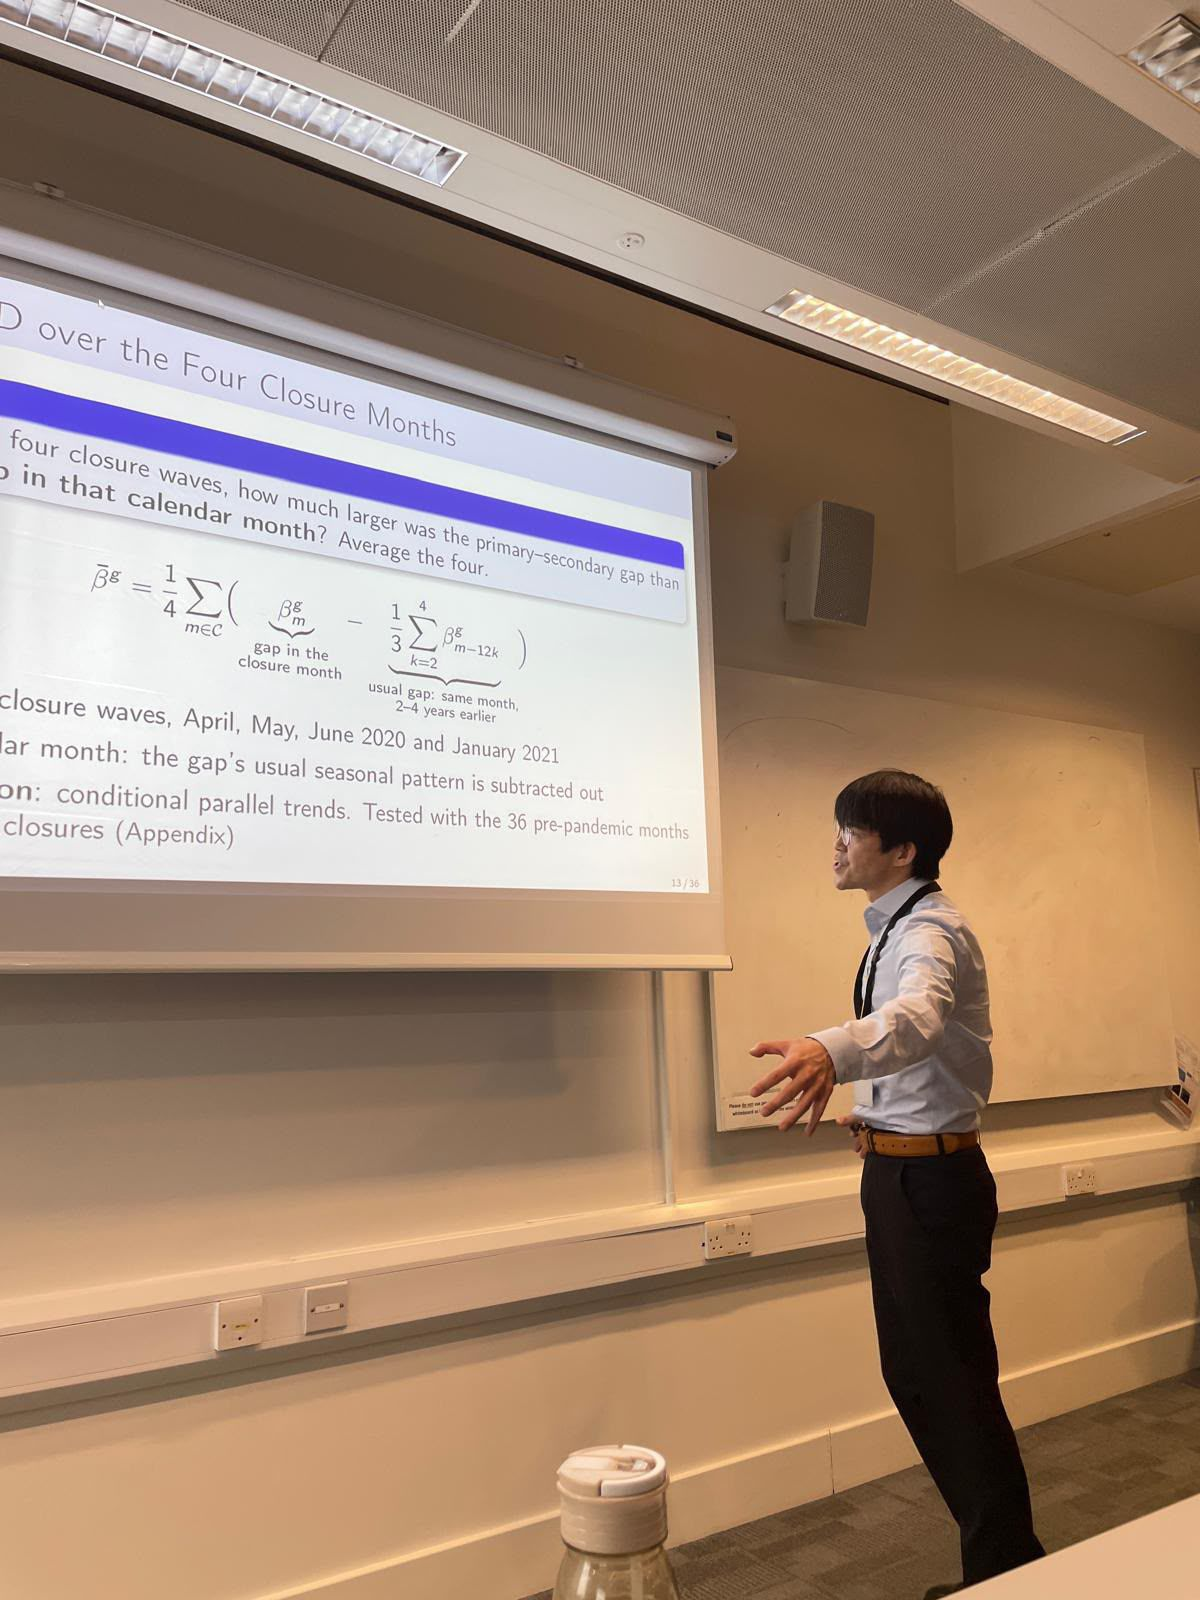
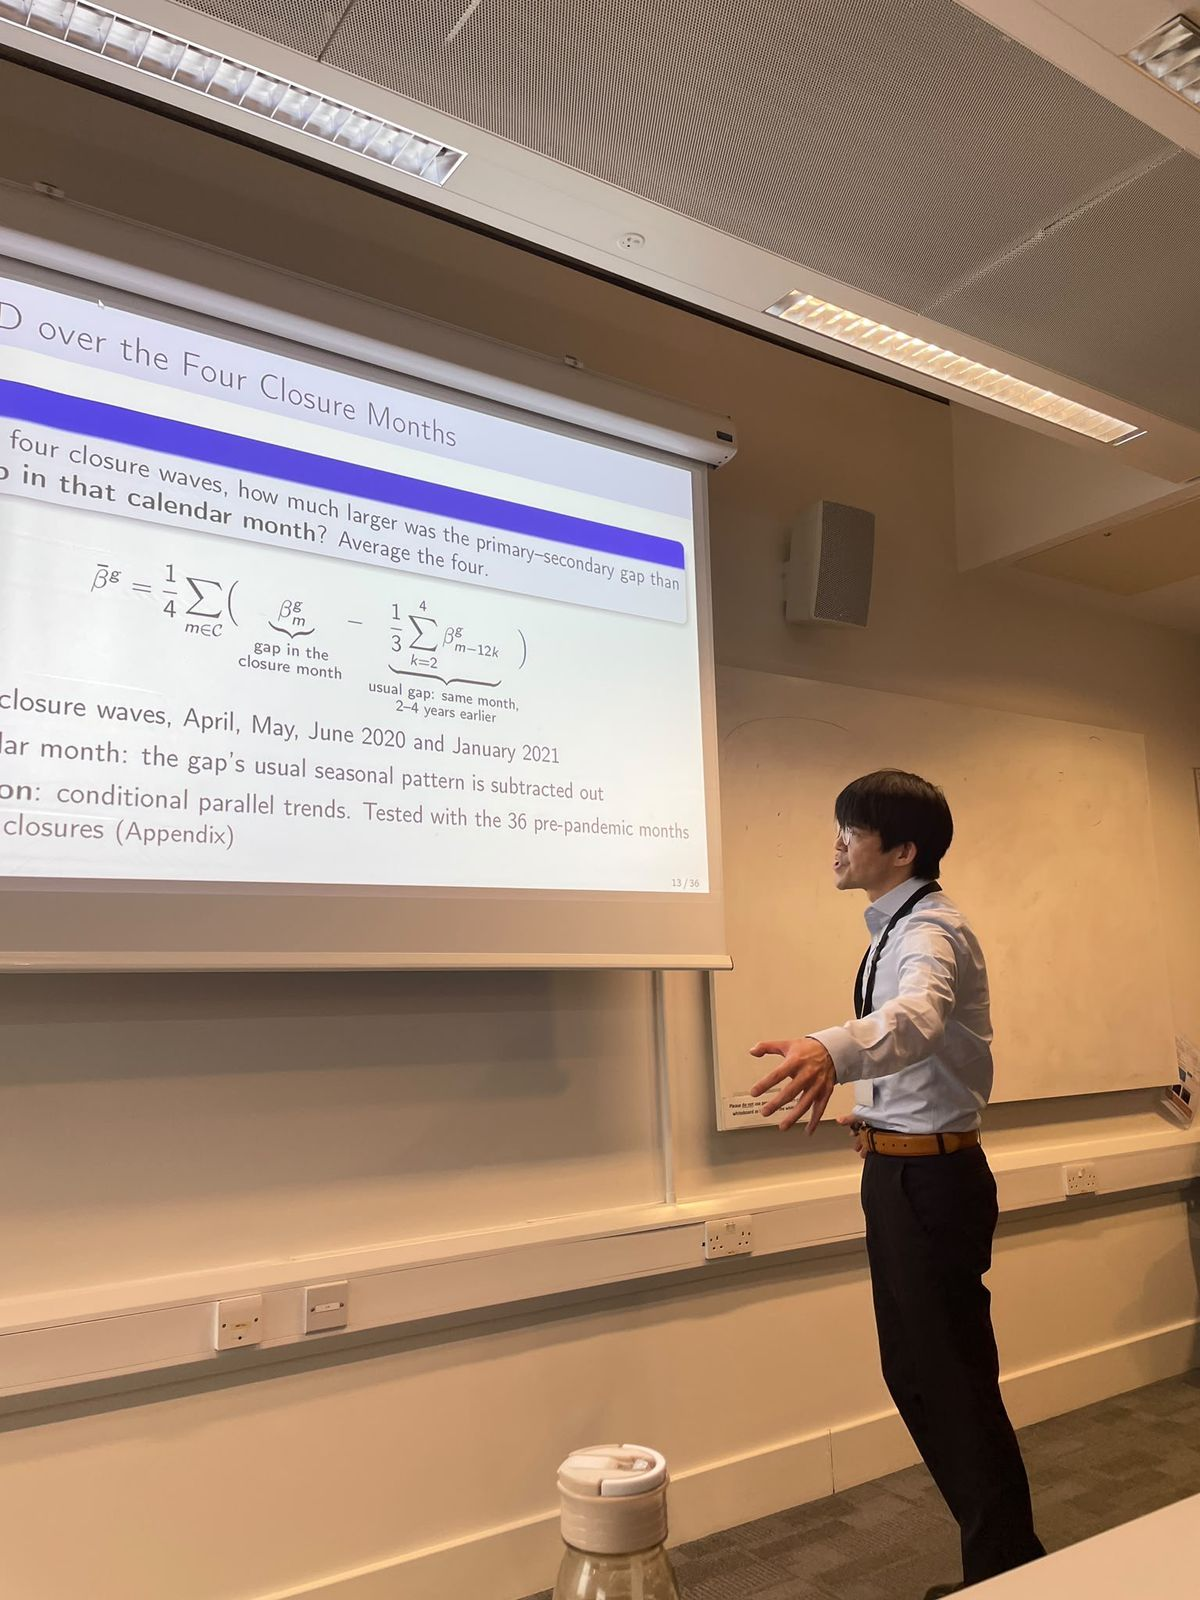
Group workshop photos by session and add Tomoto and Fernando
The gallery now has Opening and Sessions 1 to 3, each in full rows.
Adds photos of Tomoto Masuda and Fernando Rowland and swaps one Tomoto
photo for a sharper copy of the same shot.

diff --git a/photos.html b/photos.html
@@ -41,52 +41,83 @@
       <h2>Opening</h2>
       <p class="session-meta">Welcome and opening remarks<span>10:30–11:00</span></p>
     </div>
-    <ul class="gallery four">
-        <li><a href="photos/opening-1.jpg"><img src="photos/thumbs/opening-1.jpg" width="540" height="720" loading="lazy" alt="Opening of the workshop in room JUB-143"></a></li>
-        <li><a href="photos/opening-2.jpg"><img src="photos/thumbs/opening-2.jpg" width="540" height="720" loading="lazy" alt="Opening of the workshop in room JUB-143"></a></li>
-        <li><a href="photos/opening-3.jpg"><img src="photos/thumbs/opening-3.jpg" width="540" height="720" loading="lazy" alt="Opening of the workshop in room JUB-143"></a></li>
-        <li><a href="photos/opening-4.jpg"><img src="photos/thumbs/opening-4.jpg" width="540" height="720" loading="lazy" alt="Opening of the workshop in room JUB-143"></a></li>
-    </ul>
+    <div class="mosaic">
+      <ul class="photo-row">
+        <li class="p"><a href="photos/opening-1.jpg"><img src="photos/thumbs/opening-1.jpg" width="540" height="720" loading="lazy" alt="Opening of the workshop in room JUB-143"></a></li>
+        <li class="p"><a href="photos/opening-2.jpg"><img src="photos/thumbs/opening-2.jpg" width="540" height="720" loading="lazy" alt="Opening of the workshop in room JUB-143"></a></li>
+        <li class="p"><a href="photos/opening-3.jpg"><img src="photos/thumbs/opening-3.jpg" width="540" height="720" loading="lazy" alt="Opening of the workshop in room JUB-143"></a></li>
+        <li class="p"><a href="photos/opening-4.jpg"><img src="photos/thumbs/opening-4.jpg" width="540" height="720" loading="lazy" alt="Opening of the workshop in room JUB-143"></a></li>
+      </ul>
+    </div>
   </section>
 
   <div class="band">
-  <section id="presentations">
+  <section id="session-1">
     <div>
-      <h2>Presentations</h2>
-      <p class="session-meta">PhD researchers presenting their work, followed by comments from faculty discussants and questions from the room.</p>
+      <h2>Session 1</h2>
+      <p class="session-meta">Public economics, taxation and governance<span>11:00–12:30</span></p>
     </div>
     <div class="mosaic">
       <ul class="photo-row">
-        <li class="p"><a href="photos/presentation-01.jpg"><img src="photos/thumbs/presentation-01.jpg" width="540" height="720" loading="lazy" alt="A PhD researcher presenting at the workshop"></a></li>
-        <li class="p"><a href="photos/presentation-02.jpg"><img src="photos/thumbs/presentation-02.jpg" width="540" height="720" loading="lazy" alt="A PhD researcher presenting at the workshop"></a></li>
-        <li class="p"><a href="photos/presentation-03.jpg"><img src="photos/thumbs/presentation-03.jpg" width="540" height="720" loading="lazy" alt="A PhD researcher presenting at the workshop"></a></li>
+        <li class="p"><a href="photos/presentation-01.jpg"><img src="photos/thumbs/presentation-01.jpg" width="540" height="720" loading="lazy" alt="A PhD researcher presenting in Session 1"></a></li>
+        <li class="p"><a href="photos/presentation-02.jpg"><img src="photos/thumbs/presentation-02.jpg" width="540" height="720" loading="lazy" alt="A PhD researcher presenting in Session 1"></a></li>
+        <li class="p"><a href="photos/presentation-03.jpg"><img src="photos/thumbs/presentation-03.jpg" width="540" height="720" loading="lazy" alt="A PhD researcher presenting in Session 1"></a></li>
       </ul>
       <ul class="photo-row">
-        <li class="p"><a href="photos/presentation-04.jpg"><img src="photos/thumbs/presentation-04.jpg" width="540" height="720" loading="lazy" alt="A PhD researcher presenting at the workshop"></a></li>
-        <li class="p"><a href="photos/presentation-05.jpg"><img src="photos/thumbs/presentation-05.jpg" width="540" height="720" loading="lazy" alt="A PhD researcher presenting at the workshop"></a></li>
-        <li class="p"><a href="photos/presentation-06.jpg"><img src="photos/thumbs/presentation-06.jpg" width="540" height="720" loading="lazy" alt="A PhD researcher presenting at the workshop"></a></li>
+        <li class="p"><a href="photos/presentation-04.jpg"><img src="photos/thumbs/presentation-04.jpg" width="540" height="720" loading="lazy" alt="A PhD researcher presenting in Session 1"></a></li>
+        <li class="p"><a href="photos/presentation-05.jpg"><img src="photos/thumbs/presentation-05.jpg" width="540" height="720" loading="lazy" alt="A PhD researcher presenting in Session 1"></a></li>
+        <li class="p"><a href="photos/presentation-06.jpg"><img src="photos/thumbs/presentation-06.jpg" width="540" height="720" loading="lazy" alt="A PhD researcher presenting in Session 1"></a></li>
       </ul>
       <ul class="photo-row">
-        <li class="p"><a href="photos/presentation-07.jpg"><img src="photos/thumbs/presentation-07.jpg" width="540" height="720" loading="lazy" alt="A PhD researcher presenting at the workshop"></a></li>
-        <li class="p"><a href="photos/presentation-08.jpg"><img src="photos/thumbs/presentation-08.jpg" width="540" height="720" loading="lazy" alt="A PhD researcher presenting at the workshop"></a></li>
-        <li class="p"><a href="photos/presentation-09.jpg"><img src="photos/thumbs/presentation-09.jpg" width="540" height="720" loading="lazy" alt="A PhD researcher presenting at the workshop"></a></li>
+        <li class="p"><a href="photos/presentation-07.jpg"><img src="photos/thumbs/presentation-07.jpg" width="540" height="720" loading="lazy" alt="A PhD researcher presenting in Session 1"></a></li>
+        <li class="p"><a href="photos/presentation-08.jpg"><img src="photos/thumbs/presentation-08.jpg" width="540" height="720" loading="lazy" alt="A PhD researcher presenting in Session 1"></a></li>
+        <li class="p"><a href="photos/presentation-09.jpg"><img src="photos/thumbs/presentation-09.jpg" width="540" height="720" loading="lazy" alt="A PhD researcher presenting in Session 1"></a></li>
+      </ul>
+    </div>
+  </section>
+  </div>
+
+  <section id="session-2">
+    <div>
+      <h2>Session 2</h2>
+      <p class="session-meta">Economics of education, inequality and well-being<span>14:15–15:45</span></p>
+    </div>
+    <div class="mosaic">
+      <ul class="photo-row">
+        <li class="p"><a href="photos/presentation-19.jpg"><img src="photos/thumbs/presentation-19.jpg" width="540" height="720" loading="lazy" alt="A PhD researcher presenting in Session 2"></a></li>
+        <li class="p"><a href="photos/presentation-18.jpg"><img src="photos/thumbs/presentation-18.jpg" width="540" height="720" loading="lazy" alt="A PhD researcher presenting in Session 2"></a></li>
+        <li class="p"><a href="photos/presentation-20.jpg"><img src="photos/thumbs/presentation-20.jpg" width="540" height="720" loading="lazy" alt="A PhD researcher presenting in Session 2"></a></li>
       </ul>
       <ul class="photo-row">
-        <li class="p"><a href="photos/presentation-18.jpg"><img src="photos/thumbs/presentation-18.jpg" width="540" height="720" loading="lazy" alt="A PhD researcher presenting at the workshop"></a></li>
-        <li class="p"><a href="photos/presentation-10.jpg"><img src="photos/thumbs/presentation-10.jpg" width="540" height="720" loading="lazy" alt="A PhD researcher presenting at the workshop"></a></li>
-        <li class="p"><a href="photos/presentation-11.jpg"><img src="photos/thumbs/presentation-11.jpg" width="540" height="720" loading="lazy" alt="A PhD researcher presenting at the workshop"></a></li>
+        <li class="p"><a href="photos/presentation-21.jpg"><img src="photos/thumbs/presentation-21.jpg" width="540" height="720" loading="lazy" alt="A PhD researcher presenting in Session 2"></a></li>
+        <li class="p"><a href="photos/presentation-22.jpg"><img src="photos/thumbs/presentation-22.jpg" width="540" height="720" loading="lazy" alt="A PhD researcher presenting in Session 2"></a></li>
+        <li class="p"><a href="photos/presentation-23.jpg"><img src="photos/thumbs/presentation-23.jpg" width="540" height="720" loading="lazy" alt="A PhD researcher presenting in Session 2"></a></li>
       </ul>
       <ul class="photo-row">
-        <li class="p"><a href="photos/presentation-12.jpg"><img src="photos/thumbs/presentation-12.jpg" width="540" height="720" loading="lazy" alt="A PhD researcher presenting at the workshop"></a></li>
-        <li class="l"><a href="photos/presentation-13.jpg"><img src="photos/thumbs/presentation-13.jpg" width="720" height="540" loading="lazy" alt="A PhD researcher presenting at the workshop"></a></li>
-        <li class="l"><a href="photos/presentation-14.jpg"><img src="photos/thumbs/presentation-14.jpg" width="720" height="540" loading="lazy" alt="A PhD researcher presenting at the workshop"></a></li>
+        <li class="p"><a href="photos/presentation-10.jpg"><img src="photos/thumbs/presentation-10.jpg" width="540" height="720" loading="lazy" alt="A PhD researcher presenting in Session 2"></a></li>
+        <li class="p"><a href="photos/presentation-11.jpg"><img src="photos/thumbs/presentation-11.jpg" width="540" height="720" loading="lazy" alt="A PhD researcher presenting in Session 2"></a></li>
+        <li class="p"><a href="photos/presentation-12.jpg"><img src="photos/thumbs/presentation-12.jpg" width="540" height="720" loading="lazy" alt="A PhD researcher presenting in Session 2"></a></li>
+      </ul>
+    </div>
+  </section>
+
+  <div class="band">
+  <section id="session-3">
+    <div>
+      <h2>Session 3</h2>
+      <p class="session-meta">Macroeconomics, finance and international trade<span>16:00–17:00</span></p>
+    </div>
+    <div class="mosaic">
+      <ul class="photo-row">
+        <li class="l"><a href="photos/presentation-13.jpg"><img src="photos/thumbs/presentation-13.jpg" width="720" height="540" loading="lazy" alt="A PhD researcher presenting in Session 3"></a></li>
+        <li class="l"><a href="photos/presentation-14.jpg"><img src="photos/thumbs/presentation-14.jpg" width="720" height="540" loading="lazy" alt="A PhD researcher presenting in Session 3"></a></li>
       </ul>
       <ul class="photo-row">
-        <li class="l"><a href="photos/presentation-15.jpg"><img src="photos/thumbs/presentation-15.jpg" width="720" height="540" loading="lazy" alt="A PhD researcher presenting at the workshop"></a></li>
-        <li class="l"><a href="photos/presentation-16.jpg"><img src="photos/thumbs/presentation-16.jpg" width="720" height="540" loading="lazy" alt="A PhD researcher presenting at the workshop"></a></li>
+        <li class="l"><a href="photos/presentation-15.jpg"><img src="photos/thumbs/presentation-15.jpg" width="720" height="540" loading="lazy" alt="A PhD researcher presenting in Session 3"></a></li>
+        <li class="l"><a href="photos/presentation-16.jpg"><img src="photos/thumbs/presentation-16.jpg" width="720" height="540" loading="lazy" alt="A PhD researcher presenting in Session 3"></a></li>
       </ul>
       <ul class="photo-row">
-        <li class="l"><a href="photos/presentation-17.jpg"><img src="photos/thumbs/presentation-17.jpg" width="720" height="540" loading="lazy" alt="A PhD researcher presenting at the workshop"></a></li>
+        <li class="l"><a href="photos/presentation-17.jpg"><img src="photos/thumbs/presentation-17.jpg" width="720" height="540" loading="lazy" alt="A PhD researcher presenting in Session 3"></a></li>
         <li class="l"><a href="photos/audience-01.jpg"><img src="photos/thumbs/audience-01.jpg" width="720" height="540" loading="lazy" alt="Faculty and PhD researchers in the audience"></a></li>
       </ul>
     </div>
